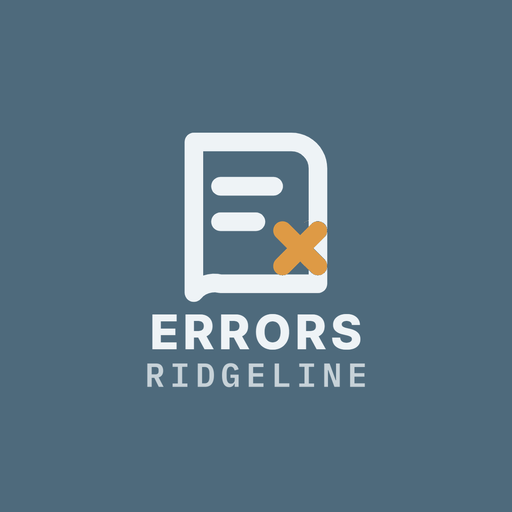
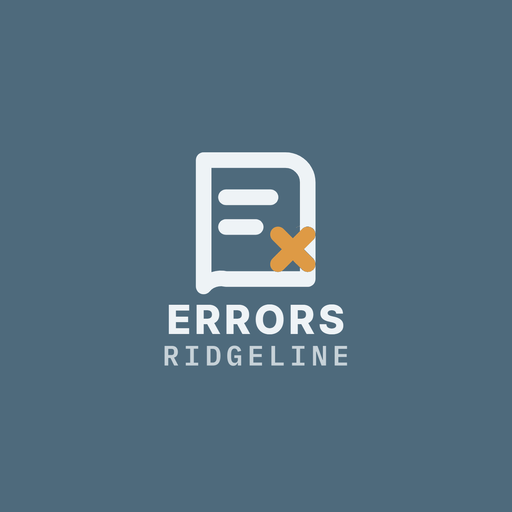
全家族版面修正：窄手機不左右滑／按鈕不擠扁、前面長說明改收合（紅線留外面）、桌面圖示縮進手機安全區
老闆手機回報（2026-10-19）：桌面圖示字被切、窄手機可左右滑、搜尋鈕擠扁、前面說明太長。版面以 360／375／390／412 四種寬度檢查（04_管理工具\版面檢查）；收合只換排版不刪字；maskable 圖示內容縮到半徑 ≤0.28。408 另加介紹文字重點標示（數字粗體、⚠ 句上警示色）。各支原有測試全過，細節見各自更新記錄。

Changed region(s): [[0.2812, 0.25, 0.7188, 0.7812]]

diff --git a/sw.js b/sw.js
@@ -1,4 +1,4 @@
-const CACHE='cuoti-v39';
+const CACHE='cuoti-v40';
 const ASSETS=['./','./index.html','./manifest.webmanifest','./ridgeline-ui.css','./favicon.svg','./icon.svg','./icon-180.png','./icon-192.png','./icon-512.png','./icon-maskable-512.png',
   // 2026-10-19 版面美化「修練手帳」：粉圓子集字型＋Fluent 3D 圖
   './vendor/round-ui/wb-round.woff2','./vendor/fluent-3d/book.png','./vendor/fluent-3d/pencil.png','./vendor/fluent-3d/fire.png','./vendor/fluent-3d/grad.png','./vendor/fluent-3d/chart.png','./vendor/fluent-3d/gear.png','./vendor/fluent-3d/stopwatch.png','./vendor/fluent-3d/camera.png','./vendor/fluent-3d/search.png'];

diff --git a/更新記錄.md b/更新記錄.md
@@ -2,6 +2,12 @@
 
 > 一支一檔規則：本 App 有任何異動就在最上面新增一筆。總覽見 `Desktop\App專案\ARCHITECTURE.md`。
 
+## 2026-10-19 · 手機桌面圖示的字被切：maskable 縮進 Android 安全區（sw cuoti-v39→cuoti-v40；未 commit／未部署）
+
+- 問題：老闆 Android 手機上 408 的安裝圖示 DOLOMITES 被遮罩切成「OLOMITE」。舊規則只保證墨跡在 W3C 安全圈（中心 80% 直徑、半徑 0.40）；但不少安裝路徑會把 maskable 直接當 Android 108dp 前景層，只露中間 72dp，啟動器再套圓形／圓角／水滴，實際放心可見只到半徑約 0.31（Android 安全區 66/108）。
+- 修法：只重產 manifest 指到的 maskable 圖（檔名不變、manifest 路徑不變），整張構圖以中心等比縮小到墨跡最大半徑 ≤ 0.28，背景色延伸滿版；其他尺寸與 any 圖不動。品牌正式檔、v5 母版與產生器（`mask_text.SAFE_R`）同步修正。
+- 本支：`icon-maskable-512.png` 半徑 0.332→0.279（以圖寬為 1；> 0.333 會被切）。
+
 ## 2026-10-19 · 版面美化「修練手帳」（v14.9／sw cuoti-v38→cuoti-v39，未部署）
 
 - 七系列家族共用語言（粉圓圓體＋Fluent 3D＋首屏主視覺＋金色立體主鈕＋HUD＋3D 圖格），701 主題＝筆記本紅＋米紙；細節與套件授權見 README 最上段。
